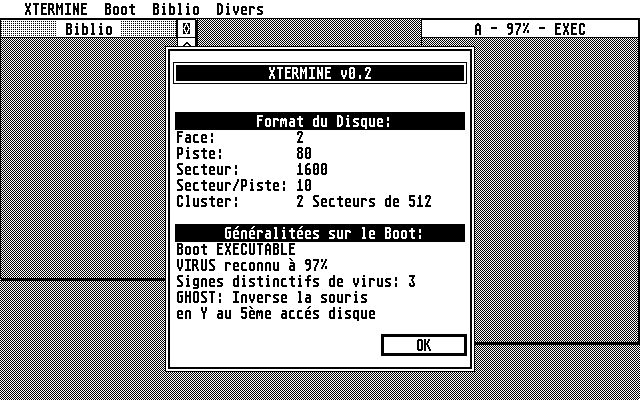
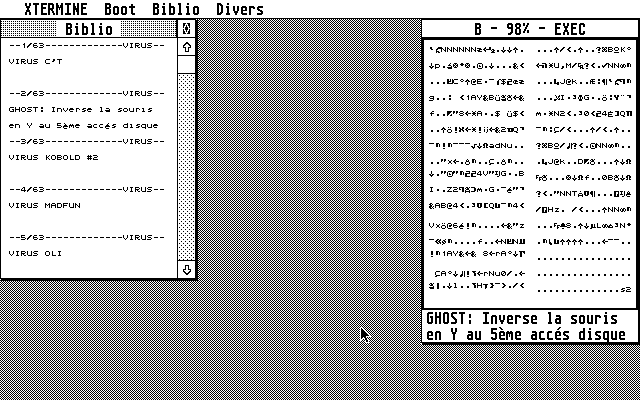
updated xtermine article

diff --git a/content/blog/antiviruses/xtermine/xtermine.md b/content/blog/antiviruses/xtermine/xtermine.md
@@ -12,157 +12,131 @@ image: {filename}../../../gallery/antiviruses/xtermine.png
 Tags: Antivirus
 
 ## Basic Information
-* Version 0.2 released 14/05/1993
-* Contains 3 databases from different antiviruses and 1 of its own
-* Author: Christophe Boyanique
-* Program language: French
-* Can detect 12 viruses, 29 antiviruses, 6 utilities, 6 miscellaneous, 10 demos. 63 total
-* Author's website with the latest version: [click!](https://www.raceme.org/atari/xtermine/)
 
-# Main Text
+- *Version*: 0.2 released 14/05/1993
+- *Author*: Christophe Boyanique
+- *Program language*: French
+- *Can detect*: 12 viruses, 29 antiviruses, 6 utilities, 6 miscellaneous, 10 demos. 63 total
+- Author's website with the latest version: [click!](https://www.raceme.org/atari/xtermine/)
 
-The antivirus was written by French programmer Christophe Boyanique on 14/05/1993 and can detect 63 boot sectors. When starting the program, we are prompted to select the amount of RAM.
+### Recognized viruses:
+
+- *Bootsector viruses*: Ghost, C'T, OLI, Kobold #2, Signum BPL, BHP, Fun, Swiss, PD141t, BLOT, Toubab, VDU, Raster & Text
+- *Link virus*: ...
+- *Others*: N/A
 
 ![photo]({attach}xtermine_photo_0.png)
 
-Then we enter the main program menu where our boot sector is displayed in ASCII on the right, and on the left will be displayed the boot sectors that Xtermine recognizes. Xtermine contains 4 databases from different antiviruses: Sagrotan, The Killer, Exorcist II, and Xtermine itself. It has 4 tabs with different functions. Let's go through them first!
+### Challenge 1: Recognize bootsector viruses not loaded in memory
 
-### Tabs
+#### Directions:
 
-1. _Xtermine_
+To test a floppy disk using Xtermine, here are the following actions:
 
-2. _Boot_
+- Insert the floppy disk to test in drive A:
+- Select the menu `Boot`
+- Select the menu action `Lecteur A:` to choose the drive
+- Select the disk and click Ok
+- Select the menu `Boot`
+- Select the menu action `Lire` to test the bootsector
+- Click Ok to validate the action
 
-3. _Biblio_
+| Virus       | Analysis                                      | Result                                                                       |
+|-------------|-----------------------------------------------|------------------------------------------------------------------------------|
+| Ghost       | ![photo]({attach}xtermine_photo_1.png)        | Xtermine successfully identified the Ghost virus                             |
+| Signum BPL  | ![photo]({attach}xtermine_photo_2.png)        | Xtermine successfully identified the Signum BPL virus                        |
+| Macumba 3.3 | ![photo]({attach}xtermine_photo_3.png)        | Xtermine said it is an unknown executable bootsector with 0 signs of viral infection |
+| Carpe Diem  | ![photo]({attach}xtermine_photo_4.png)        | Xtermine said it is an unknown executable bootsector but it has 3 signs of viral infection |
+| OLI         | ![photo]({attach}xtermine_photo_5.png)        | Xtermine successfully identified the OLI virus                               |
+| OLI2        | ![photo]({attach}xtermine_photo_6.png)        | Xtermine reported that it detected only 1 sign of viral infection            |
+| EICAR       | ![photo]({attach}xtermine_photo_7.png)        | Xtermine said it is an unknown non-executable bootsector with 0 signs of viral infection |
 
-4. _Divers_
+### Challenge 2: Recognize bootsector viruses loaded in memory
 
-### Xtermine
+Xtermine cannot scan memory. However, Xtermine successfully recognized the OLI virus in the bootsector when it was in memory! But it did not recognize OLI2...
 
-This tab contains:
+### Challenge 3: Recognize a link virus
 
-* **Xtermine**
+Xtermine is not capable of analyzing files.
 
-This tab contains information about the author, creation date, and whether this version is registered.
+### Challenge 4: Restore a broken bootsector
 
-### Boot
+#### Directions
 
-This tab allows you to:
+- Insert the floppy disk to test in drive A:
+- Select the menu `Boot`
+- Select the menu action `Lecteur A:` to choose the drive
+- Select the disk and click Ok
+- Select the menu `Boot`
+- Select the menu action `Lire` to test the bootsector
+- Click Ok to validate the action
+- Select the menu `Biblio`
+- Select the menu action `Inserer Boot`
+- Add a description, select the bootsector type, select the vaccination type
+- Click `METTRE A JOUR` to save the bootsector to the library
 
-* **Select disk**
+After you have saved the bootsector to the Xtermine library, you can load it into the bootsector. To do this, follow the instructions:
 
-* **Read**
+- Find the saved bootsector in the list
+- Press and hold the button on the bootsector you want to put on the disk
+- Select Vacciner and release the button
+- In the menu that opens, click `Vacciner A:`
 
-* **Save to disk**
+Congratulations! You have written your bootsector to the disk!
 
-* **Quit**
+![photo]({attach}xtermine_photo_9.png)
 
-### What are they doing?
+### Challenge 5: Vaccine a non executable floppy disk
 
-1. Here you can select drives from A to P.
+#### Directions
 
-2. Here you can read information about the boot sector. Example:
+With Xtermine, you can vaccinate a disk with any of the provided bootsectors on the left. To write to the disk, repeat these steps:
 
-![photo]({attach}xtermine_photo_1.png)
+- Press and hold the button on the bootsector you want to put on the disk
+- Select Vacciner and release the button
+- In the menu that opens, click `Vacciner A:`
 
-3. Save the boot sector to disk
+To write the Xtermine vaccine, simply repeat these steps with the Raster & Texte vaccine. Interesting fact: Xtermine has a second vaccine that is labeled as a virus.
 
-4. Exit to the desktop
+Here is what we see upon booting:
 
-### Biblio
+![photo]({attach}xtermine_photo_10.png)
 
-This tab contains:
+![photo]({attach}xtermine_photo_8.png)
 
-* **Information**
+This vaccine has bugs, but having two of them is already good.
 
-* **Insert bootloader**
+### Challenge 6: Analyze a suspicious bootsector
 
-* **Insert file**
+#### Directions
 
-* **Load**
+Xtermine checks the bootsector similarly to how Sagrotan does. But its heuristic analysis is much less advanced than Sagrotan's.
 
-* **Insert**
+- Xtermine does not check vectors
+- Xtermine checks the checksum
+- Xtermine does not check for the Magic long word ($12123456)
+- Xtermine performs heuristic analysis of the bootsector
+- Xtermine checks the BPB
 
-* **Save**
+### Challenge 7: Detect a malware when Xtermine is not running
 
-### What are they doing?
+#### Directions
 
-1. Shows information about boot sectors
+Xtermine doesn't have any resident TOS Accessory which can detect viruses while Xtermine is not running.
 
-2. Allows saving an inserted boot sector by giving it a name and description
+### Summary and Conclusion
 
-3. Allows inserting a .DAT file into the program
+In the following table, we summarized the challenges results:
 
-4. Allows loading a .DMV file into the program
-
-5. Allows inserting a .DAT file into the program
-
-6. Allows saving a file
-
-### Divers
-
-This tab contains:
-
-* **System**
-
-* **Settings**
-
-* **Statistics**
-
-### What are they doing?
-
-1. System Information
-
-2. Allows selecting display mode and control codes
-
-3. Statistics
-
-### Boot Sectors on the Left
-
-If you click on the boot sectors on the left, you can choose what to do with them:
-
-1. Open on screen in ASCII
-
-2. Save to disk
-
-3. Remove from the list of detectable boot sectors
-
-4. Vaccinate (write to disk)
-
-    1. Note: cannot write a virus to disk
-
-5. Re-edit (change boot sector type) Example: change antivirus to virus :)
-
-![photo]({attach}xtermine_photo_3.png)
-
-### Vaccine
-
-It is unknown if this antivirus has a vaccine.
-
-## Virus Test
-
-* **ACA**
-
-* **Macumba 3.3**
-
-* **Merlin's Mad**
-
-* **Non-Executable EICAR Virus**
-
-* **Oli**
-
-### Test results
-
-1. **Xtermine** said it is an unknown executable boot sector.
-
-2. **Xtermine** said it is an unknown executable boot sector.
-
-3. **Xtermine** said it is an unknown executable boot sector.
-
-4. **Xtermine** said it is an unknown non-executable boot sector.
-
-5. **Xtermine** correctly identified the OLI virus.
-
-## In conclusion
-
-This is basically an average virus killer that can detect some interesting viruses. But... 3,5/10
+| Challenge                                           | Result   |
+|-----------------------------------------------------|:--------:|
+| Recognize bootsector viruses not loaded in memory   |  4/7     |
+| Recognize bootsector viruses loaded in memory       |  1/7     |
+| Recognize a link virus                              |  0/1     |
+| Restore a broken bootsector                         |  1/1     |
+| Vaccine a non executable floppy disk                |  1/1     |
+| Analyze a suspicious bootsector                     |  3/5     |
+| Detect a malware when Xtermine is not running       |  0/2     |
+| **Total**                                           |  10/24   |
+
+In conclusion, Xtermine is a good antivirus that can detect the OLI virus while it is in memory. You can even add libraries from other antiviruses!
